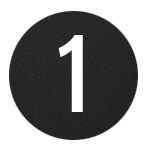
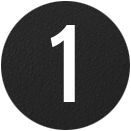
add styles

Changed region(s): [[0.0, 0.0, 1.0, 1.0], [0.3664, 0.1832, 0.5802, 0.7939]]

diff --git a/assets/css/style.css b/assets/css/style.css
@@ -58,14 +58,15 @@ body {
 }
 
 #stop:active {
-    background: url("../images/redbuttonbg.jpg");
+    background: #ff0000;
     box-shadow: 0 0 35px rgba(255, 0, 0, 0.7);
 }
 
 .innerbuttonimg {
-    transform: translate(-7px, -2px);
-    height: 56px;
-    width: 55px;
+
+    transform: translate(-4px, 0px);
+    height: 48px;
+    width: 48px;
     opacity: 0.9;
 }
 
